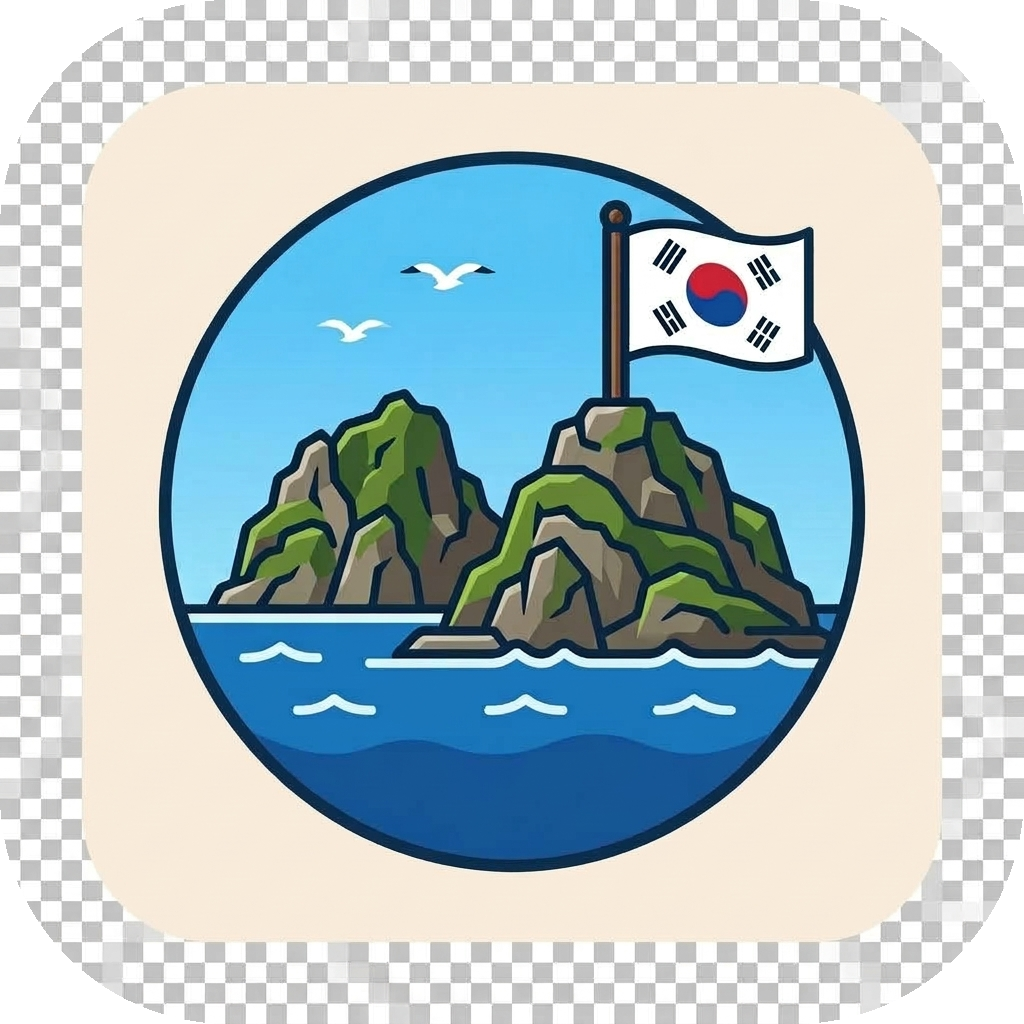
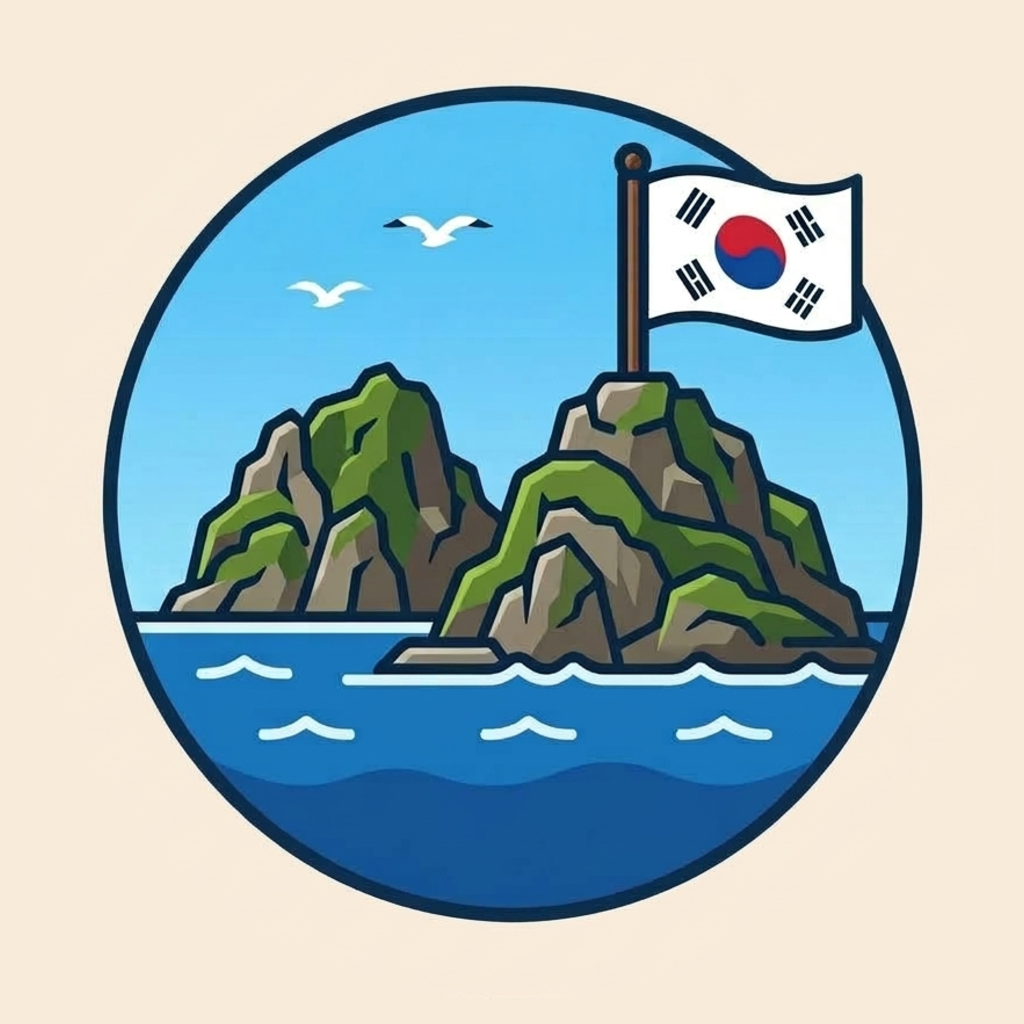
feat: add Play Store listing kit and pre-launch fixes
- Add play-store/ with the 512 icon, 1024x500 feature graphic, six phone
  screenshots, Korean store copy and app content / data safety answers
- Rebuild the master icon without the baked-in checkerboard (also the web
  favicon) and derive the Play icon from it
- Fix the cleanup page header title ("수중정화 참여 신청")
- Remove the home AI trend section with unsourced statistics

diff --git a/src/pages/home/page.tsx b/src/pages/home/page.tsx
@@ -1,7 +1,6 @@
 import { useState, useEffect } from 'react';
 import { HeroSection } from './components/HeroSection';
 import { ProductSection } from './components/ProductSection';
-import { AITrendSection } from './components/AITrendSection';
 import { AboutSection } from './components/AboutSection';
 import { ProjectsSection } from './components/ProjectsSection';
 import { ContactSection } from './components/ContactSection';
@@ -115,7 +114,6 @@ export default function HomePage() {
           <div className="relative z-10">
             <HeroSection />
             <AboutSection />
-            <AITrendSection />
             <div id="products">
               <ProductSection />
             </div>

diff --git a/src/components/feature/Header.tsx b/src/components/feature/Header.tsx
@@ -79,7 +79,7 @@ function Header() {
 
   const getPageTitle = (pathname: string) => {
     if (pathname === '/about') return 'About';
-    if (pathname === '/services/cleanup') return '수중 정화 제보';
+    if (pathname === '/services/cleanup') return '수중정화 참여 신청';
     if (pathname === '/services/contest') return '수중사진 공모전';
     if (pathname === '/services/ai-fact-check') return 'AI 팩트체크';
     if (pathname === '/services/report') return '오류 정보 제보';

diff --git a/play-store/README.md b/play-store/README.md
@@ -1,0 +1,132 @@
+# Google Play 등록 자료 (Blue Guardians)
+
+Play Console에 그대로 붙여 넣거나 업로드할 자료입니다. 앱 코드와 일치하는지 확인한 기준일: 2026-10-16.
+
+## 1. 업로드 파일
+
+| Play Console 항목 | 파일 | 규격 |
+|---|---|---|
+| 앱 아이콘 | `icon-512.png` | 512×512 PNG |
+| 그래픽 이미지 | `feature-graphic-1024x500.jpg` | 1024×500 JPEG |
+| 휴대전화 스크린샷 | `screenshots/01~06` | 1080×1920 JPEG, 6장 (올린 순서대로 노출) |
+| 앱 번들 | `android/app/build/outputs/bundle/release/app-release.aab` | versionCode 1 |
+
+- 아이콘과 그래픽 이미지는 `assets/icon.png`(엠블럼)와 `public/images/dokdo photo/dokdo-aerial-hero.jpg`로 만들었습니다.
+- 스크린샷은 실제 앱과 같은 웹 빌드를 휴대폰 크기로 찍은 것입니다. 아카이브는 게시물이 없어 빈 화면이라 제외했습니다.
+
+## 2. 스토어 등록정보 (기본 언어: 한국어)
+
+**앱 이름** (최대 30자)
+```
+Blue Guardians
+```
+
+**간단한 설명** (최대 80자)
+```
+대한잠수협회(KUDA)와 함께 독도와 우리 바다를 지키는 시민 참여 플랫폼
+```
+
+**자세한 설명** (최대 4,000자)
+```
+Blue Guardians(블루 가디언즈)는 사단법인 대한잠수협회(KUDA)와 함께 독도와 우리 바다의 가치를 기록하고 알리는 시민 참여 플랫폼입니다. 잠수부들이 담아 온 독도의 수중 기록을 함께 보고, 수중정화 활동에 참여하고, 온라인에서 발견한 잘못된 독도 정보를 바로잡는 데 힘을 보태 주세요.
+
+■ 주요 기능
+
+• 독도 아카이브
+공지사항, 독도 자료, 수중 정화 활동 게시판에서 독도의 사진·영상 기록과 활동 소식을 보고 댓글로 소통할 수 있습니다.
+
+• 독도 자료 등록과 AI 팩트체크
+독도 관련 글을 올리기 전에 AI가 본문을 분석해 '다케시마', '일본해' 같은 왜곡 표현을 찾아내고 올바른 표현을 제안합니다.
+
+• 수중정화 참여 신청
+대한잠수협회(KUDA)와 함께하는 독도 수중정화 활동에 누구나 참여를 신청할 수 있습니다.
+
+• 오류 정보 제보
+웹사이트나 SNS에서 발견한 독도 관련 오류 정보를 주소와 증거 자료와 함께 제보할 수 있습니다.
+
+• 독도 수중 사진 공모전
+독도의 수중 비경과 해양 생태를 담는 사진 공모전 소식과 참여 절차를 안내합니다.
+
+• 생체인증 간편 로그인
+회원가입 후 지문 등 기기의 생체인증으로 빠르게 로그인할 수 있습니다. (생체인증을 지원하는 기기에서 사용 가능)
+
+■ 이런 분께 추천합니다
+• 독도와 해양 환경 보호에 관심 있는 분
+• 수중 촬영과 스쿠버다이빙을 즐기는 다이버
+• 독도에 대한 올바른 정보를 알리고 싶은 학생과 시민
+
+■ 운영 기관
+사단법인 대한잠수협회(KUDA, Korea Underwater Diving Association)
+1979년 창립 이후 잠수·수상안전 교육과 수중 자연보호 활동을 이어 오고 있습니다.
+
+문의: kudaon@daum.net
+```
+
+**기타 항목**
+
+| 항목 | 값 |
+|---|---|
+| 앱 카테고리 | 교육 (대안: 소셜) |
+| 이메일 | `kudaon@daum.net` (개인정보처리방침의 문의처와 동일) |
+| 웹사이트 | `https://blueoceanguardians.org` |
+| 개인정보처리방침 | `https://main.d2t329riy5sv3g.amplifyapp.com/privacy` |
+
+## 3. 앱 콘텐츠 답변
+
+| 항목 | 답 |
+|---|---|
+| 개인정보처리방침 | 위 URL |
+| 로그인 세부정보 (앱 액세스) | **예** + 심사용 일반 회원 계정 (아래 4번) |
+| 광고 | 아니요 (광고 SDK 없음) |
+| 광고 ID | 사용 안 함 (`AD_ID` 권한 없음) |
+| 콘텐츠 등급 | 카테고리 "참고 자료, 뉴스 또는 교육". 폭력·선정성·언어·약물·도박: 모두 아니요. **사용자 간 상호작용/콘텐츠 공유: 예** (게시글·댓글). 위치 공유: 아니요. 디지털 상품 구매: 아니요 |
+| 타겟층 | **18세 이상** 권장. 어린이의 관심을 끌 수 있는 앱: 아니요 (만 14세 미만은 회원가입 시 보호자 동의가 필요하고, 13세 미만을 넣으면 가족 정책 심사가 추가됨) |
+| 뉴스 앱 | 아니요 |
+| 정부 앱 | 아니요 (정부 기관이 개발·운영하지 않음) |
+| 금융 기능, 건강 앱 | 해당 없음 |
+| 계정 삭제 | 앱 내: MY → 회원 탈퇴. 웹 URL: 개인정보처리방침 URL (계정 삭제 섹션) |
+
+## 4. 로그인 세부정보 (심사용 계정)
+
+- 만드는 법: 앱이나 웹의 회원가입에서 이메일 `google-review@sol.com`, 이름 `Google-Review`, 비밀번호, 휴대폰번호(임의 값)로 가입하면 됩니다. SQL은 필요 없습니다.
+- 일반 회원(USER)으로 둡니다. 관리자 권한은 주지 않습니다.
+- Play Console에는 이 이메일과 비밀번호만 입력합니다.
+- 비밀번호는 이 저장소에 적지 말고 Play Console에만 입력합니다.
+- 업데이트 심사 때마다 다시 쓰이므로 비밀번호를 바꾸지 말고, 심사자가 탈퇴시켰을 수 있으니 업데이트 전에 로그인을 확인합니다.
+
+**기타 정보** 칸:
+```
+1. Tap "MY" in the bottom tab bar (or menu ☰ → 로그인) and sign in with the email and password above.
+2. Logged-in features: Archive tab → write posts/comments on the "독도 자료" and "수중 정화 활동" boards; MY tab → profile, optional biometric login toggle, account deletion (회원 탈퇴).
+3. Biometric login is optional. It is enabled in MY after a password login and needs a fingerprint or face enrolled on the device.
+4. The admin dashboard is for association staff only and is not available to regular members.
+```
+
+## 5. 데이터 보안
+
+**공통 답변**
+- 필수 사용자 데이터를 수집하거나 공유: **예**
+- 전송 중 암호화: **예** (모든 통신 HTTPS)
+- 데이터 삭제 요청 방법 제공: **예** (앱·웹 회원 탈퇴, 본인 게시글·댓글 개별 삭제)
+- 계정 생성 방법: 사용자 이름(이메일)과 비밀번호
+
+**수집 항목** (모두 "공유: 아니요", "일시적 처리: 아니요")
+
+| 데이터 유형 | 필수/선택 | 목적 | 수집 위치 |
+|---|---|---|---|
+| 개인 정보 > 이름 | 필수 | 앱 기능, 계정 관리 | 회원가입, 정화 신청, 문의 |
+| 개인 정보 > 이메일 주소 | 필수 | 앱 기능, 계정 관리 | 회원가입, 문의 |
+| 개인 정보 > 전화번호 | 필수 | 앱 기능, 계정 관리 | 회원가입, 정화 신청 연락처 |
+| 개인 정보 > 기타 정보 | 선택 | 계정 관리 | 생년월일, 소속, 잠수 라이선스 등급 (회원가입 선택 항목) |
+| 사진 및 동영상 > 사진 | 선택 | 앱 기능 | 게시글·정화 신청·제보 첨부 |
+| 사진 및 동영상 > 동영상 | 선택 | 앱 기능 | 게시글·정화 신청 첨부 |
+| 파일 및 문서 > 파일 및 문서 | 선택 | 앱 기능 | 제보 증거 자료 첨부 |
+| 앱 활동 > 기타 사용자 제작 콘텐츠 | 선택 | 앱 기능 | 게시글, 댓글, 제보, 문의, 정화 신청 내용 |
+
+**수집하지 않음**: 위치, 금융 정보, 건강, 메시지, 연락처, 캘린더, 오디오, 웹 기록, 앱 정보 및 성능(오류 로그), 기기 ID
+
+**판단 근거**
+- Supabase(저장), AWS Amplify(호스팅), OpenAI(AI 팩트체크)는 앱을 대신해 데이터를 처리하는 서비스 제공업체라 Play 기준의 "공유"에 해당하지 않습니다. 팩트체크할 글 본문만 Supabase Edge Function을 거쳐 OpenAI로 전송됩니다.
+- 생체인증은 기기의 Keystore 안에서만 처리되고 서버로 전송되지 않아 수집 항목이 아닙니다.
+- 사진은 업로드 전에 기기에서 다시 인코딩해 위치 정보(EXIF/GPS)를 지웁니다. 단, 기기가 열지 못하는 형식(일부 HEIC)과 동영상은 원본 그대로 올라갑니다. 앱이 위치를 따로 읽거나 저장하지는 않으므로 위치는 수집 항목에 넣지 않았습니다.
+- 분석·광고·오류 수집 SDK는 쓰지 않습니다.

diff --git a/task.md b/task.md
@@ -138,3 +138,6 @@
 - [ ] Replace the 49 `any` usages and the 6 `set-state-in-effect` patterns, then raise both rules to `error` (`eslint.config.js`) <!-- id: 139 -->
 - [x] Remove the footer nav row (About/Services/Archive/Contact): duplicates the fixed desktop header, hamburger menu and bottom tab bar; point KUDA homepage links to https://kuda.or.kr (www host has a certificate mismatch) (`FooterSection.tsx`, `Contact.tsx`) <!-- id: 140 -->
 - [x] Audit native permissions: Android needs only INTERNET + USE_BIOMETRIC (USE_FINGERPRINT auto-merged by androidx.biometric, no camera/storage); add missing iOS NSCameraUsageDescription/NSMicrophoneUsageDescription for photo/video capture from file inputs; document in `MOBILE_DEPLOYMENT_GUIDE.md`, fix README JDK 17 -> 21 <!-- id: 141 -->
+- [x] Prepare Google Play listing kit: 512 icon, 1024x500 feature graphic, six 1080x1920 screenshots, Korean store copy, app content / data safety answers and review account notes (`play-store/`) <!-- id: 142 -->
+- [x] Pre-launch fixes: rebuild the master icon without the baked-in checkerboard and derive legacy Android launcher icons and the Play icon from it (`assets/icon.png`, `public/icon.png`, `play-store/icon-512.png`), fix the cleanup page header title, remove the unsourced AI trend statistics section from home (`Header.tsx`, `home/page.tsx`); rebuild signed AAB <!-- id: 143 -->
+- [ ] Post real content to the archive boards before launch (all boards are currently empty) <!-- id: 144 -->

diff --git a/PROJECT.md b/PROJECT.md
@@ -69,7 +69,7 @@ Custom schema `dokdo_guardians` is used for total isolation:
 
 ## 5. Brand Assets & App Icons
 - **Design Motif**: Iconic Dokdo Island Twin Peaks on a Deep Ocean Blue Wave Bowl with Flying Seagulls and Proud South Korean Taegeukgi Flag (National Marine Heritage Vector Symbol).
-- **Master Assets**: `assets/icon.png` (1024x1024 PNG), `public/icon.png`, `public/favicon.png`.
+- **Master Assets**: `assets/icon.png` (1024x1024, opaque cream square with the Dokdo emblem, no transparency) = `public/icon.png` (web favicon / apple-touch-icon), plus `public/favicon.png`. The legacy Android launcher icons (`ic_launcher`, `ic_launcher_round`) and `play-store/icon-512.png` are derived from it.
 - **iOS AppIcon**: `ios/App/App/Assets.xcassets/AppIcon.appiconset/AppIcon-512@2x.png` (1024x1024 Universal).
 - **Android Launcher Icons**:
   - Legacy & Standard: `android/app/src/main/res/mipmap-{mdpi,hdpi,xhdpi,xxhdpi,xxxhdpi}/ic_launcher.png`
